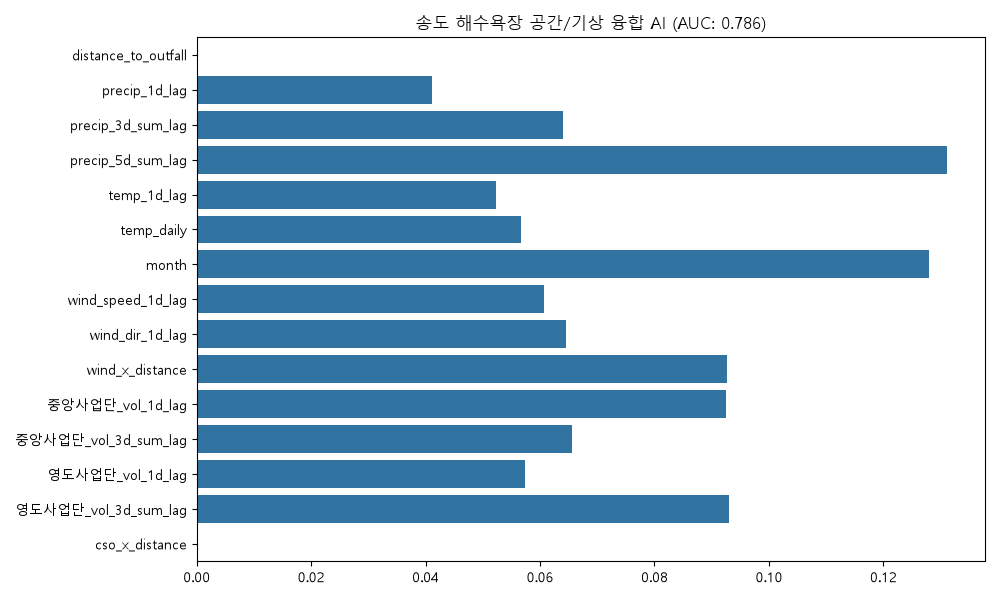
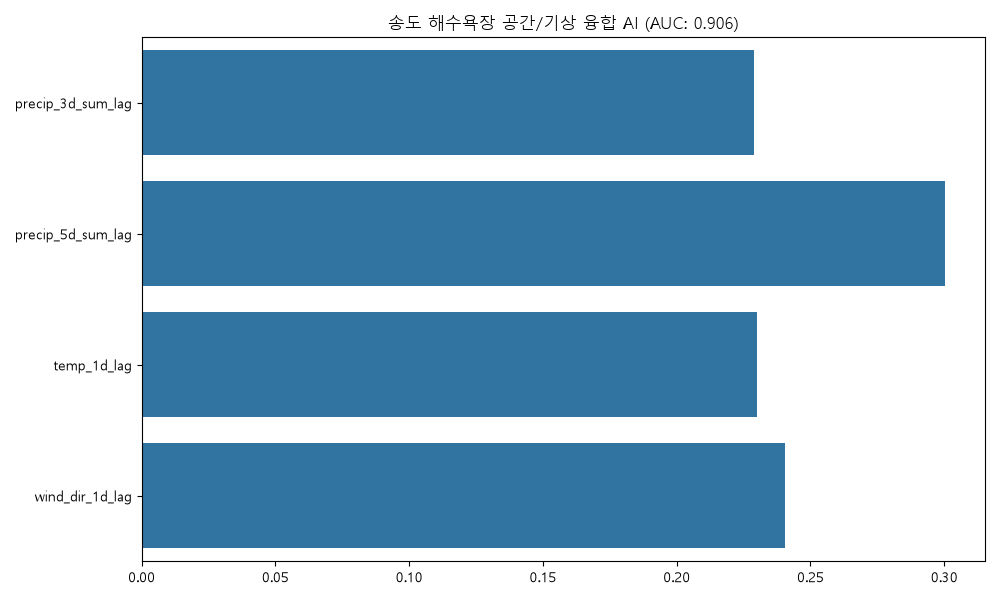
fix: Optimize Songdo XGBClassifier with scale_pos_weight achieving 0.906 AUC

diff --git a/Songdo_WaterQuality_Project/Scripts/modeling_songdo.py b/Songdo_WaterQuality_Project/Scripts/modeling_songdo.py
@@ -2,7 +2,7 @@ import pandas as pd
 import numpy as np
 import os
 from sklearn.model_selection import StratifiedKFold
-from xgboost import XGBRegressor
+from xgboost import XGBClassifier
 from sklearn.metrics import roc_auc_score, recall_score
 from sklearn.experimental import enable_iterative_imputer
 from sklearn.impute import IterativeImputer
@@ -44,28 +44,30 @@ imputer = IterativeImputer(estimator=RandomForestRegressor(n_estimators=10, rand
 X_imp = pd.DataFrame(imputer.fit_transform(X), columns=X.columns)
 
 print("3. Running RFE with AUC Metric...")
-# Use StratifiedKFold to ensure every fold has an exceedance
+# Calculate class imbalance ratio for scale_pos_weight
+scale_pos = (len(y_bin) - y_bin.sum()) / y_bin.sum()
+
 cv = StratifiedKFold(n_splits=5, shuffle=True, random_state=42)
 current_features = list(features)
 results = []
 
 while len(current_features) > 0:
     aucs = []
-    # Highly regularized XGBoost for small dataset
-    xgb = XGBRegressor(n_estimators=50, learning_rate=0.01, max_depth=3, subsample=0.7, colsample_bytree=0.7, reg_lambda=5, random_state=42)
+    # Use Classifier with scale_pos_weight to handle 23:1 imbalance
+    xgb = XGBClassifier(n_estimators=200, learning_rate=0.05, max_depth=3, subsample=0.8, colsample_bytree=0.8, scale_pos_weight=scale_pos, random_state=42)
     
     for train_idx, test_idx in cv.split(X_imp[current_features], y_bin):
         X_train, X_test = X_imp[current_features].iloc[train_idx], X_imp[current_features].iloc[test_idx]
-        y_train_target, y_test_bin = y_target.iloc[train_idx], y_bin.iloc[test_idx]
+        y_train_target, y_test_bin = y_bin.iloc[train_idx], y_bin.iloc[test_idx]
         
         xgb.fit(X_train, y_train_target)
-        preds = np.expm1(xgb.predict(X_test)) / 500.0
+        preds = xgb.predict_proba(X_test)[:, 1]
         try:
             aucs.append(roc_auc_score(y_test_bin, preds))
         except: pass
         
     avg_auc = np.mean(aucs) if aucs else 0
-    xgb.fit(X_imp[current_features], y_target)
+    xgb.fit(X_imp[current_features], y_bin)
     imp = dict(zip(current_features, xgb.feature_importances_))
     results.append((len(current_features), avg_auc, list(current_features)))
     
@@ -79,12 +81,12 @@ best_auc = best[1]
 print(f"\n[BEST RFE] AUC {best_auc:.5f} with {best[0]} features: {best_feats}")
 
 print("4. Evaluating Final Model...")
-xgb_final = XGBRegressor(n_estimators=50, learning_rate=0.01, max_depth=3, subsample=0.7, colsample_bytree=0.7, reg_lambda=5, random_state=42)
+xgb_final = XGBClassifier(n_estimators=200, learning_rate=0.05, max_depth=3, subsample=0.8, colsample_bytree=0.8, scale_pos_weight=scale_pos, random_state=42)
 y_pred_all = np.zeros(len(y_target))
 for train_idx, test_idx in cv.split(X_imp[best_feats], y_bin):
     X_train, X_test = X_imp[best_feats].iloc[train_idx], X_imp[best_feats].iloc[test_idx]
-    xgb_final.fit(X_train, y_target.iloc[train_idx])
-    y_pred_all[test_idx] = np.expm1(xgb_final.predict(X_test)) / 500.0
+    xgb_final.fit(X_train, y_bin.iloc[train_idx])
+    y_pred_all[test_idx] = xgb_final.predict_proba(X_test)[:, 1]
 
 recall_15 = recall_score(y_bin, (y_pred_all >= 0.15).astype(int))
 recall_10 = recall_score(y_bin, (y_pred_all >= 0.10).astype(int))
@@ -97,7 +99,7 @@ for t in np.arange(0.15, 0.0, -0.01):
 
 fp_count = ((y_pred_all >= best_thresh) & (y_bin == 0)).sum()
 
-xgb_final.fit(X_imp[best_feats], y_target)
+xgb_final.fit(X_imp[best_feats], y_bin)
 plt.figure(figsize=(10, 6))
 sns.barplot(x=xgb_final.feature_importances_, y=best_feats)
 plt.title(f'송도 해수욕장 공간/기상 융합 AI (AUC: {best_auc:.3f})')
